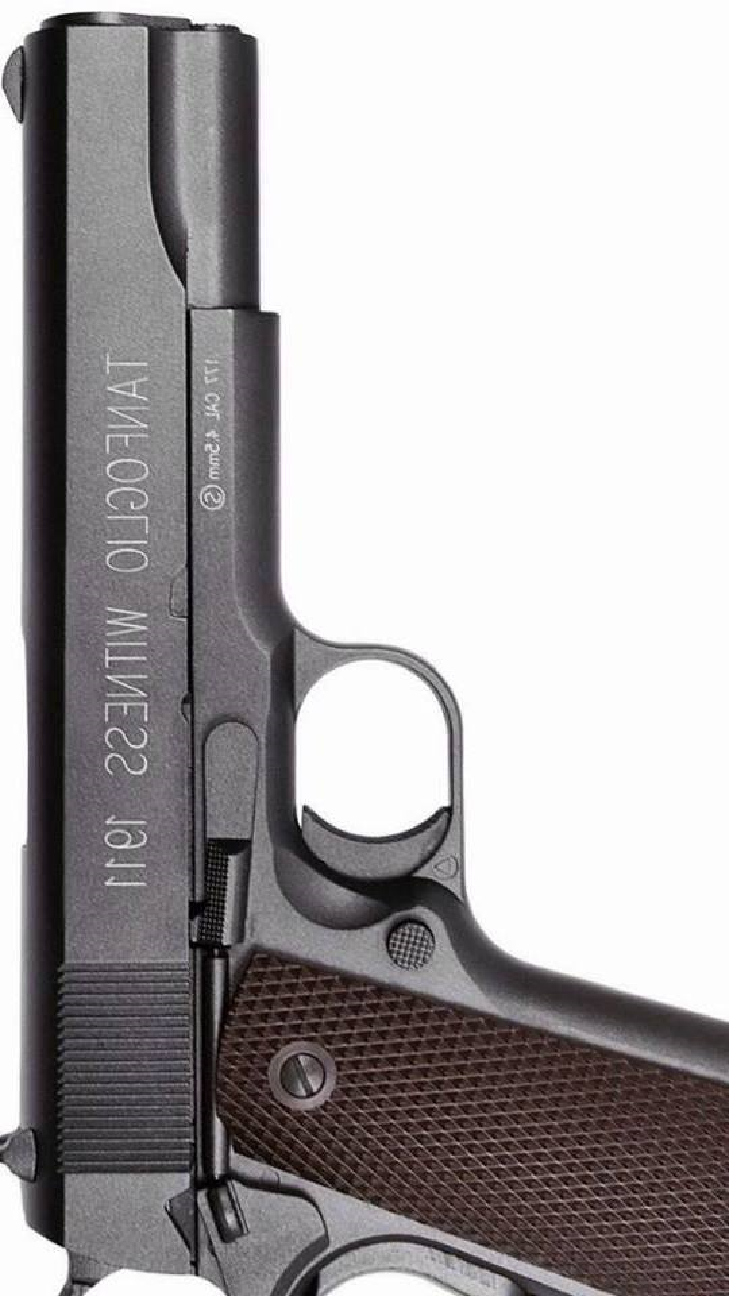
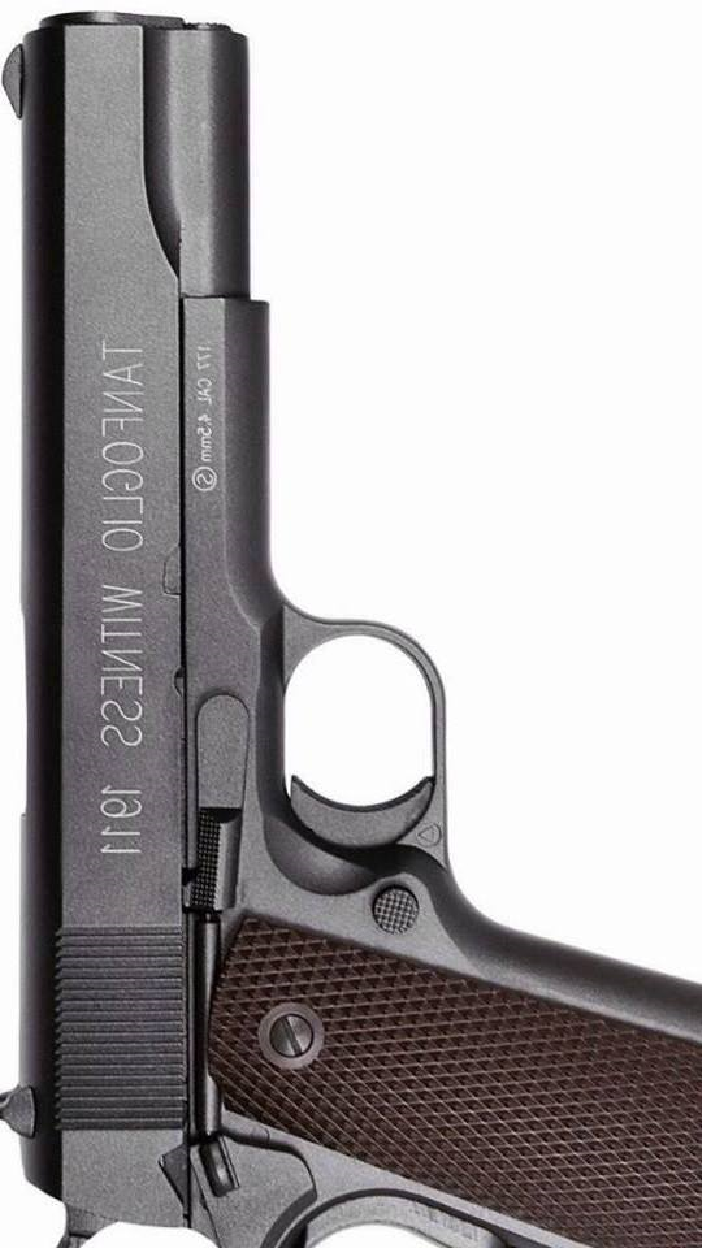
background-position: -117px -650px; 130%

Changed region(s): [[0.1496, 0.625, 0.1795, 0.6562]]

diff --git a/index.html b/index.html
@@ -5,7 +5,7 @@
   <meta name="viewport" content="width=device-width">
   <title>JS Bin</title>
 </head>
-<body style="background-image: url(gun225.png); background-repeat: no-repeat; background-position: -136px -675px;">
+<body style="background-image: url(gun225.png); background-repeat: no-repeat; background-position: -117px -650px;">
 <!--background-size: 225%-->
 <!--background-position: -135px -635px;-->
 </div>
